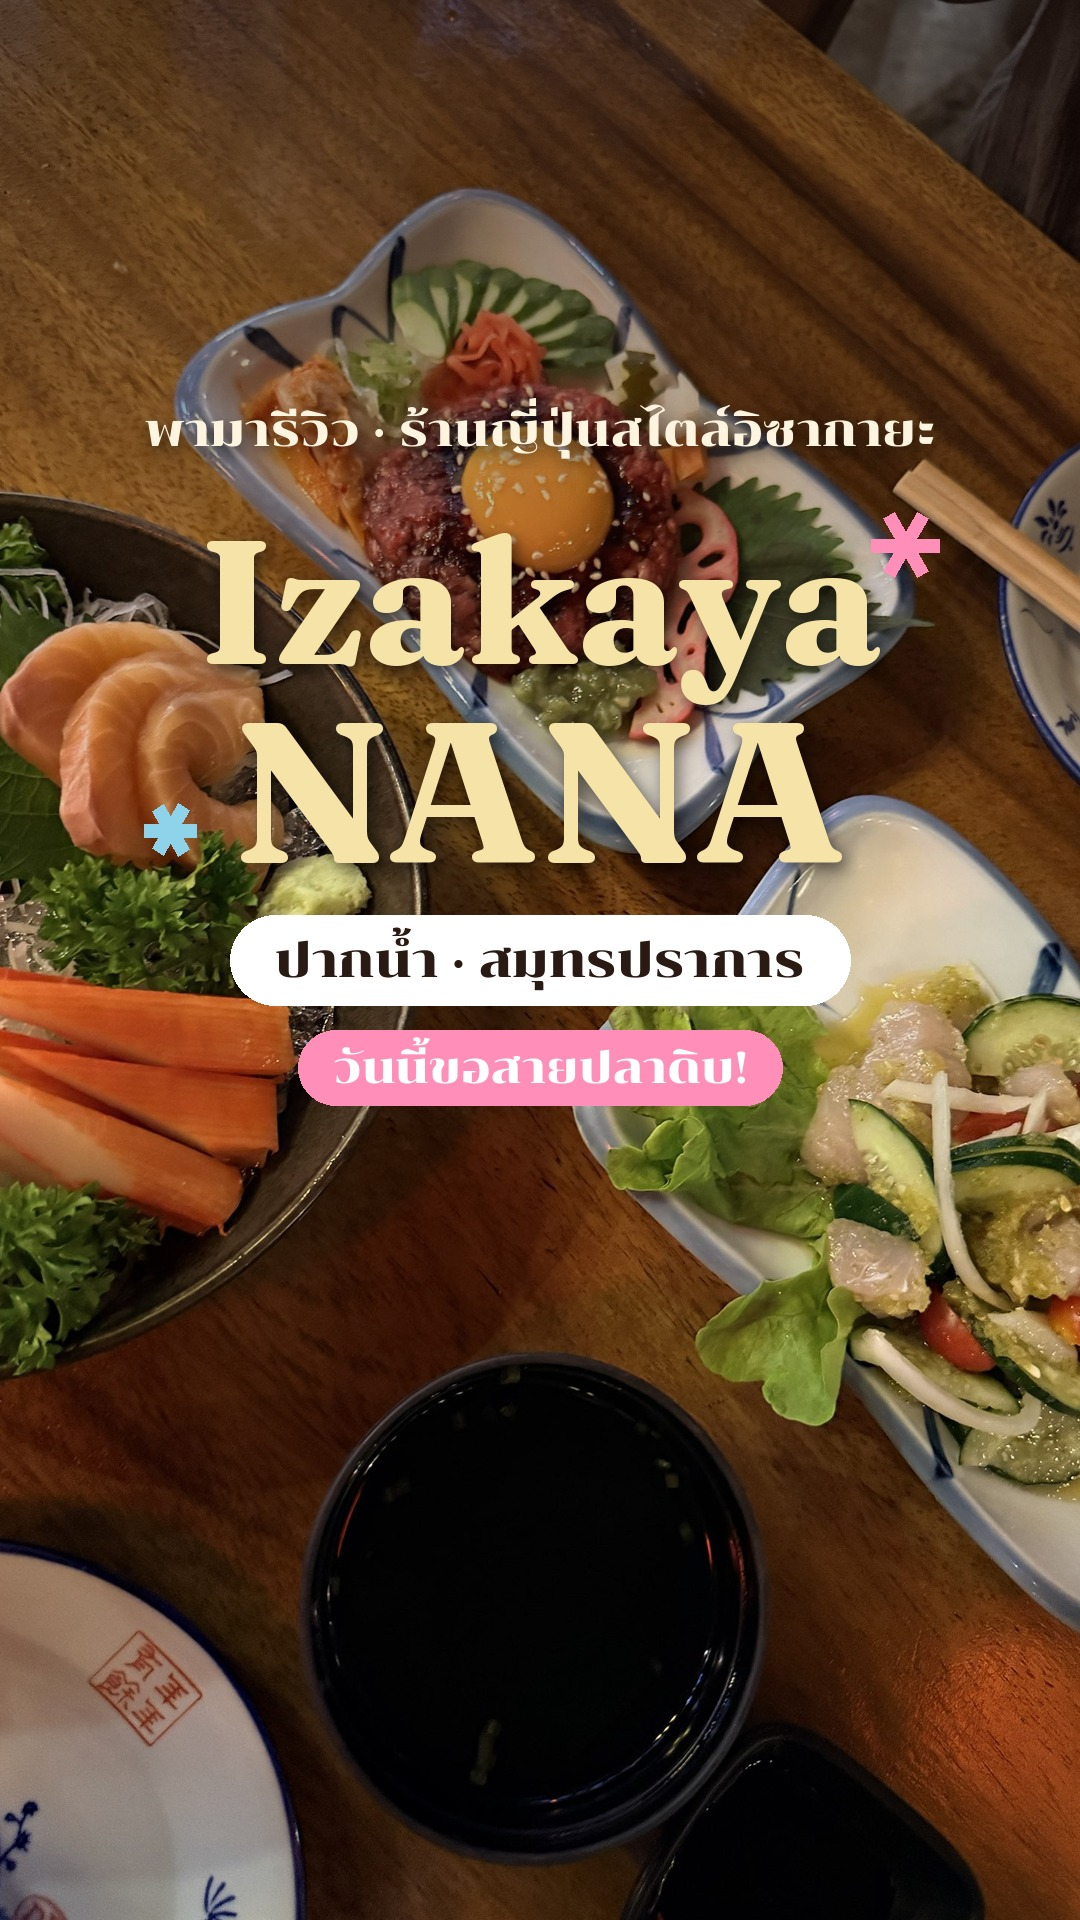
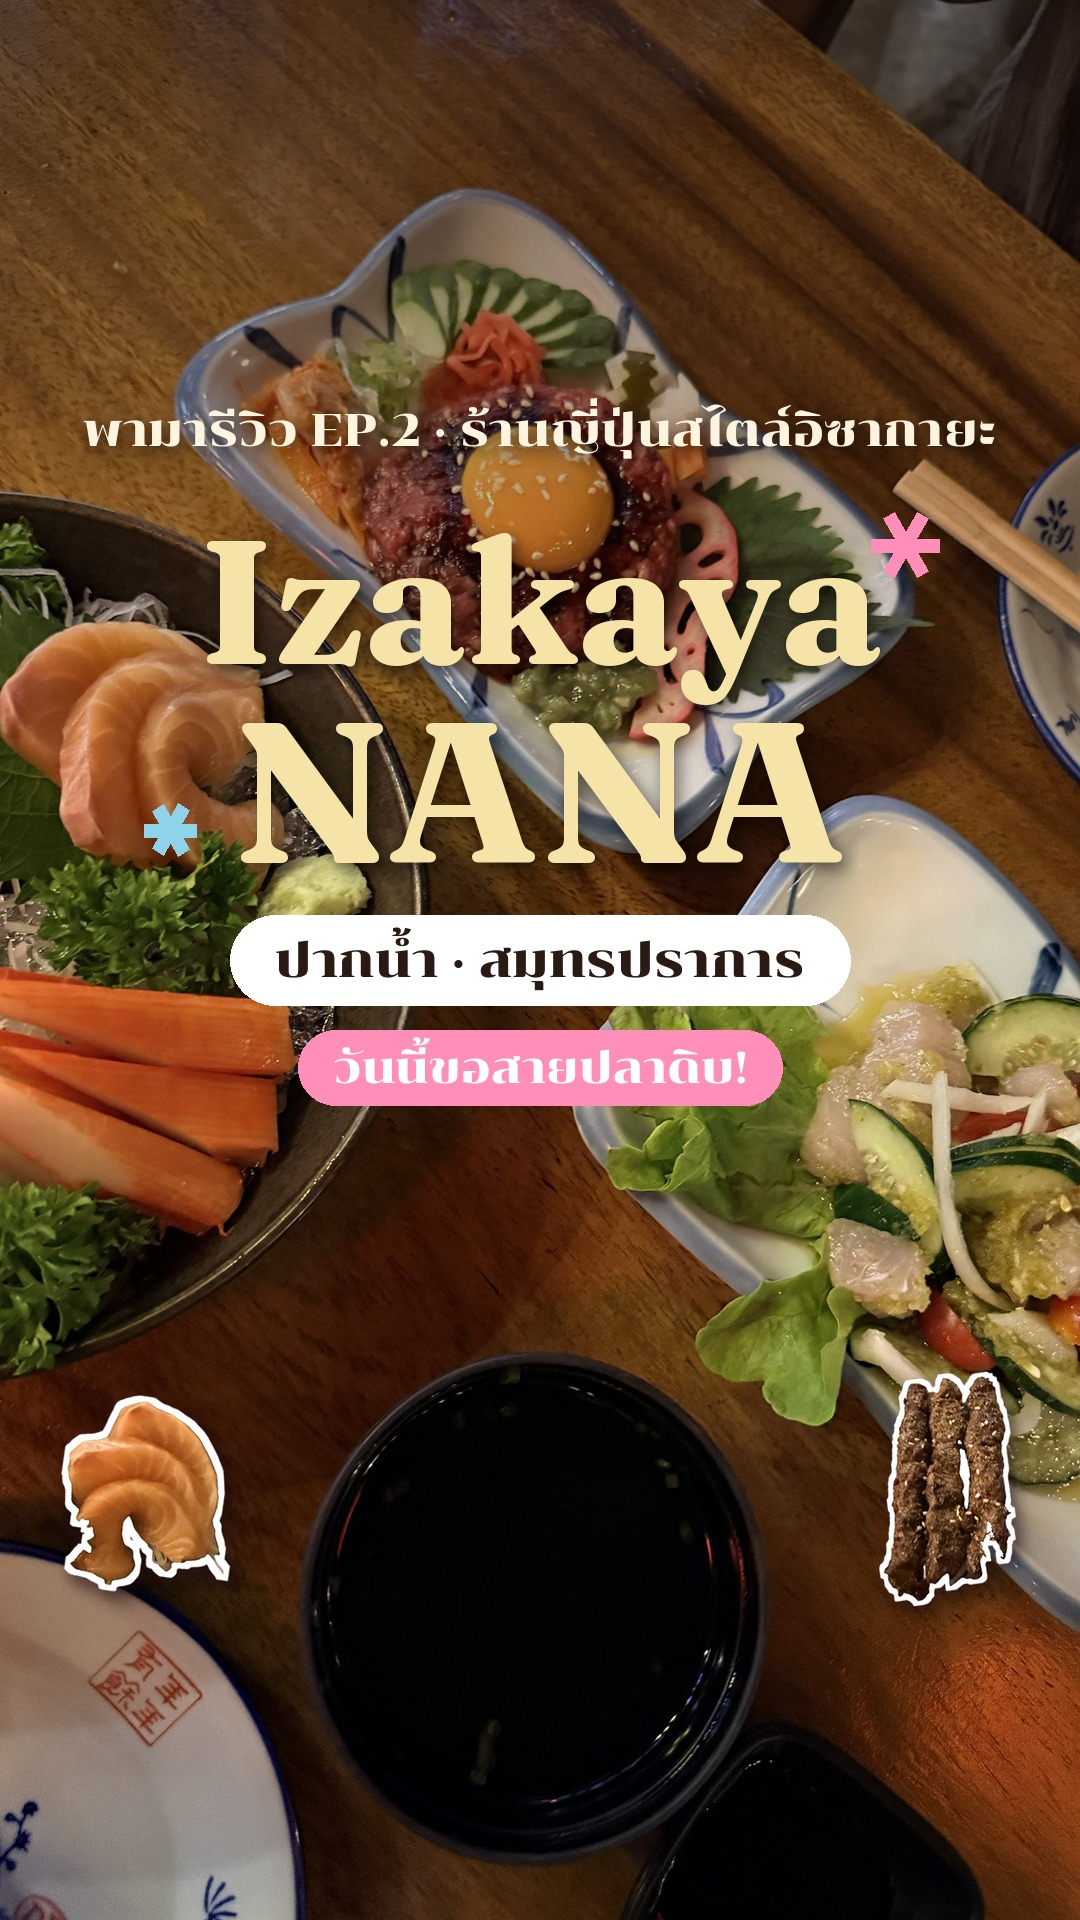
Izakaya food-review: EP.2 + salmon/wagyu stickers
Claude-Session: https://claude.ai/code/session_01RZMEmhoirYuY1dqu28ugx2

diff --git a/office/weeks/2026-W49/izakaya-nana/edit/foodreview.py b/office/weeks/2026-W49/izakaya-nana/edit/foodreview.py
@@ -78,7 +78,7 @@ class El:
 def hook_layers():
     L = []
     k = layer()
-    txt(k, (W // 2, 225), "พามารีวิว · ร้านญี่ปุ่นสไตล์อิซากายะ", font("Chonburi-Regular.ttf", 44), "#FFF4E0")
+    txt(k, (W // 2, 225), "พามารีวิว EP.2 · ร้านญี่ปุ่นสไตล์อิซากายะ", font("Chonburi-Regular.ttf", 44), "#FFF4E0")
     L.append((k, -0.12))
     t = layer()
     txt(t, (W // 2, 375), "Izakaya", font("Fraunces-Bold.ttf", 170), CREAM)
@@ -135,6 +135,39 @@ def card_layers():
     return L
 
 
+STK = "/home/user/marketing-dashboard/office/assets/stickers/food/"
+
+
+def sticker(name, w, angle):
+    im = Image.open(STK + name).convert("RGBA")
+    im = im.resize((w, int(im.height * w / im.width)), Image.LANCZOS).rotate(angle, expand=True, resample=Image.BICUBIC)
+    sh = Image.new("RGBA", im.size, (0, 0, 0, 0))
+    sh.paste((0, 0, 0, 90), mask=im.split()[3])
+    out = Image.new("RGBA", (im.width + 30, im.height + 30), (0, 0, 0, 0))
+    out.alpha_composite(sh.filter(ImageFilter.GaussianBlur(7)), (8, 12))
+    out.alpha_composite(im, (0, 0))
+    return out
+
+
+class Pop:
+    """sticker pop-in scale 0->110->100% in 0.2s, centred at (cx, cy)"""
+    def __init__(self, img, cx, cy, t0, t1):
+        self.img, self.cx, self.cy, self.t0, self.t1, self.cache = img, cx, cy, t0, t1, {}
+
+    def draw(self, fr, t):
+        if not (self.t0 <= t < self.t1):
+            return
+        u = t - self.t0
+        s = 1.0 if u >= 0.2 else (1.1 * u / 0.13 if u < 0.13 else 1.1 - 0.1 * (u - 0.13) / 0.07)
+        s = round(max(s, 0.02), 3)
+        im = self.img
+        if s != 1.0:
+            if s not in self.cache:
+                self.cache[s] = im.resize((max(1, int(im.width * s)), max(1, int(im.height * s))), Image.BICUBIC)
+            im = self.cache[s]
+        fr.alpha_composite(im, (int(self.cx - im.width / 2), int(self.cy - im.height / 2)))
+
+
 def main(inp, out):
     T_CARD = 12.9
     top_grad = gradient(150, 760)
@@ -144,8 +177,12 @@ def main(inp, out):
              ("03", "Seafood Salad", "ยำปลาไทยซีฟู้ดวาซาบิ", 9.1, 10.5), ("04", "Wagyu", "วากิวย่าง", 10.5, 11.9)]
     for num, en, th, a, b in menus:
         els.append(El(menu_layer(num, en, th), a, b))
+    els.append(Pop(sticker("salmon-izakaya-nana.png", 280, -8), 905, 470, 7.95, 9.1))
+    els.append(Pop(sticker("wagyu-skewer-izakaya-nana.png", 230, 8), 925, 440, 10.75, 11.9))
     cbg = card_bg()
     cels = [El(img, T_CARD + t0, 99) for img, t0 in card_layers()]
+    cels.append(Pop(sticker("salmon-izakaya-nana.png", 230, -8), 200, 1640, T_CARD + 0.5, 99))
+    cels.append(Pop(sticker("wagyu-skewer-izakaya-nana.png", 190, 8), 880, 1630, T_CARD + 0.6, 99))
     dec = subprocess.Popen(["ffmpeg", "-nostdin", "-v", "error", "-i", inp, "-f", "rawvideo", "-pix_fmt", "rgb24", "-"],
                            stdout=subprocess.PIPE)
     enc = subprocess.Popen(["ffmpeg", "-nostdin", "-v", "error", "-y", "-f", "rawvideo", "-pix_fmt", "rgb24", "-s", f"{W}x{H}",

diff --git a/office/weeks/2026-W49/izakaya-nana/edit/cover_food_review.py b/office/weeks/2026-W49/izakaya-nana/edit/cover_food_review.py
@@ -3,7 +3,7 @@ from PIL import Image, ImageDraw, ImageFont, ImageFilter, ImageOps
 F='/home/user/marketing-dashboard/office/assets/fonts/'
 U='/root/.claude/uploads/4c923d2c-8f5d-5971-8899-b8d14570e947/'
 W,H=1080,1920
-def make(photo, out, yc=0.5, xc=0.5, py=915):
+def make(photo, out, yc=0.5, xc=0.5, py=915, stickers=False):
     im=ImageOps.exif_transpose(Image.open(U+photo)).convert('RGB')
     s=max(W/im.width,H/im.height); im=im.resize((int(im.width*s)+1,int(im.height*s)+1),Image.LANCZOS)
     x=int((im.width-W)*xc); y=int((im.height-H)*yc); im=im.crop((x,y,x+W,y+H))
@@ -18,7 +18,7 @@ def make(photo, out, yc=0.5, xc=0.5, py=915):
             c.alpha_composite(l.filter(ImageFilter.GaussianBlur(8)))
         ImageDraw.Draw(c).text(xy,t,font=f,fill=fill,anchor=anchor,stroke_width=sw,stroke_fill=sf)
     th=ImageFont.truetype(F+'Chonburi-Regular.ttf',46)
-    txt((W//2,430),'พามารีวิว · ร้านญี่ปุ่นสไตล์อิซากายะ',th,'#FFF4E0')
+    txt((W//2,430),'พามารีวิว EP.2 · ร้านญี่ปุ่นสไตล์อิซากายะ',th,'#FFF4E0')
     fr=ImageFont.truetype(F+'Fraunces-Bold.ttf',175)
     txt((W//2,600),'Izakaya',fr,'#F6E3A8')
     fr2=ImageFont.truetype(F+'Fraunces-Bold.ttf',200)
@@ -38,9 +38,19 @@ def make(photo, out, yc=0.5, xc=0.5, py=915):
     bw=ImageDraw.Draw(c).textlength(t2,font=sf)+70
     ImageDraw.Draw(c).rounded_rectangle([W//2-bw/2,py+115,W//2+bw/2,py+190],radius=38,fill='#FF8FB8')
     ImageDraw.Draw(c).text((W//2,py+152),t2,font=sf,fill='white',anchor='mm')
+    # food die-cut stickers (small, near edges, inside 3:4 crop)
+    def stk(name,w,ang,cx,cy):
+        im=Image.open('/home/user/marketing-dashboard/office/assets/stickers/food/'+name).convert('RGBA')
+        im=im.resize((w,int(im.height*w/im.width)),Image.LANCZOS).rotate(ang,expand=True,resample=Image.BICUBIC)
+        sh=Image.new('RGBA',im.size,(0,0,0,0)); sh.paste((0,0,0,90),mask=im.split()[3])
+        c.alpha_composite(sh.filter(ImageFilter.GaussianBlur(7)),(int(cx-im.width/2)+8,int(cy-im.height/2)+12))
+        c.alpha_composite(im,(int(cx-im.width/2),int(cy-im.height/2)))
+    if stickers:
+        stk('salmon-izakaya-nana.png',200,-8,150,1500)
+        stk('wagyu-skewer-izakaya-nana.png',165,8,945,1490)
     c.convert('RGB').save(out,quality=92)
     # 3:4 center check
     h=int(W*4/3); y0=(H-h)//2
     c.convert('RGB').crop((0,y0,W,y0+h)).save(out.replace('.jpg','-3x4.jpg'),quality=85)
 make('7e14678d-image.jpg', sys.argv[1]+'/coverA-yukhoe.jpg', yc=0.15, py=1440)
-make('7fa7d651-image.jpg', sys.argv[1]+'/coverA-table.jpg', yc=0.35)
+make('7fa7d651-image.jpg', sys.argv[1]+'/coverA-table.jpg', yc=0.35, stickers=True)
